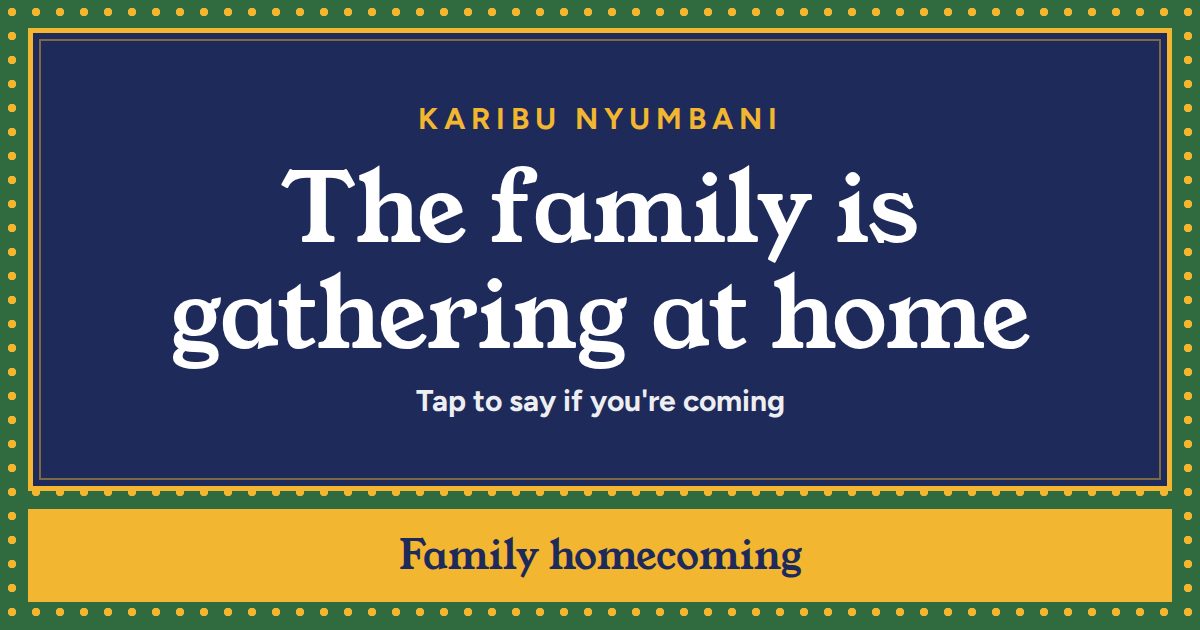
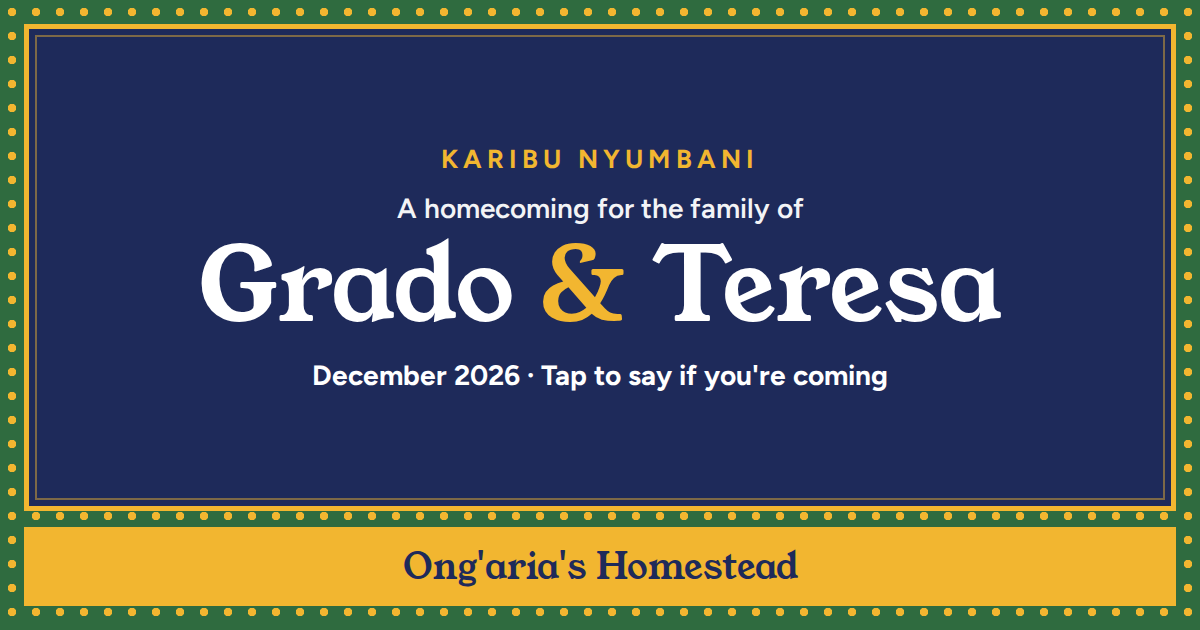
Fill in event details: Grado & Teresa, Ong'aria's Homestead, December 2026
Branch question and table switch off when no branches are configured.
Replies and messages are private to the hosts; contact is Uncle Gilly.

Changed region(s): [[0.0, 0.0302, 0.9867, 0.9651], [0.1233, 0.2413, 0.8633, 0.6635], [0.3392, 0.1508, 0.6475, 0.2111]]

diff --git a/web/index.html b/web/index.html
@@ -3,7 +3,7 @@
 <head>
   <meta charset="utf-8">
   <meta name="viewport" content="width=device-width, initial-scale=1">
-  <title>Karibu nyumbani · Family homecoming</title>
+  <title>Karibu nyumbani · Grado &amp; Teresa homecoming</title>
   <meta name="description" content="The family is gathering at home. Tap to say if you're coming. It takes under a minute, no sign-up.">
   <meta name="theme-color" content="#1E2A5A">
 
@@ -11,8 +11,8 @@
        not in config.js. og:url and og:image must be absolute URLs. -->
   <meta property="og:type" content="website">
   <meta property="og:site_name" content="Karibu nyumbani">
-  <meta property="og:title" content="Karibu nyumbani: the family is gathering at home">
-  <meta property="og:description" content="Tap to say if you're coming. It takes under a minute, no sign-up.">
+  <meta property="og:title" content="Karibu nyumbani: the family of Grado &amp; Teresa is gathering at home">
+  <meta property="og:description" content="December 2026 at Ong'aria's Homestead. Tap to say if you're coming. It takes under a minute, no sign-up.">
   <meta property="og:url" content="https://centrine-o.github.io/Homecoming-RSVP/">
   <meta property="og:image" content="https://centrine-o.github.io/Homecoming-RSVP/og-image.png">
   <meta property="og:image:width" content="1200">
@@ -47,7 +47,7 @@
           <dt>Where</dt>
           <dd><span data-cfg="venue"></span> <a id="directions" class="directions" target="_blank" rel="noopener" hidden>Get directions</a></dd>
         </div>
-        <div><dt>Host</dt><dd>Hosted by <span data-cfg="host"></span></dd></div>
+        <div id="host-row"><dt>Host</dt><dd>Hosted by <span data-cfg="host"></span></dd></div>
       </dl>
     </div>
     <p class="jina" data-cfg="saying"></p>
@@ -67,7 +67,7 @@
           <p id="name-error" class="error" hidden></p>
         </div>
 
-        <div class="field">
+        <div id="branch-field" class="field">
           <label for="branch">Your family branch</label>
           <p id="branch-hint" class="hint">The grandparents' child whose family you belong to, by birth or marriage.</p>
           <select id="branch" name="branch" required aria-describedby="branch-hint branch-error">
@@ -119,7 +119,7 @@
         </fieldset>
 
         <div class="field">
-          <label for="message">A message to the family <span class="optional">(optional)</span></label>
+          <label for="message"><span id="message-label">A message to the family</span> <span class="optional">(optional)</span></label>
           <textarea id="message" name="message" rows="3" maxlength="500" aria-describedby="message-count"></textarea>
           <p id="message-count" class="hint count-hint">0 / 500</p>
         </div>
@@ -148,7 +148,7 @@
       <h2 id="who-title">Who has replied</h2>
       <p id="totals" class="totals" aria-live="polite">Loading replies…</p>
       <p id="load-error" class="notice" role="status" hidden>Couldn't refresh the list. Check your connection; it will try again shortly.</p>
-      <p id="private-note" class="hint" hidden>Names are visible to the hosts only.</p>
+      <p id="private-note" class="hint" hidden>Only the hosts can see who has replied.</p>
       <div id="lists" class="lists">
         <div class="list is-attending" data-status="attending">
           <h3>Coming <span class="count"></span></h3>

diff --git a/web/config.js b/web/config.js
@@ -1,30 +1,25 @@
-// All event details live here (NFR-09). Text in [square brackets] is waiting for an answer
-// from docs/REQUIREMENTS.md section 3. After editing, also update the matching Script Properties
+// All event details live here (NFR-09). After editing, also update the matching Script Properties
 // in Apps Script (BRANCHES, OTHER_BRANCH, RSVP_DEADLINE, SHOW_PUBLIC_LISTS, SHOW_PUBLIC_MESSAGES, CONTACT).
 
 export default {
-  grandfather: '[Grandfather]',            // Q1
-  grandmother: '[Grandmother]',            // Q2
-  date: '[Day, date and time]',            // Q4, e.g. 'Saturday 19 December 2026, 10 am to evening'
-  venue: '[Home name, village]',           // Q5
-  mapsUrl: '',                             // Q5, a Google Maps pin link; empty hides "Get directions"
-  host: '[Host name]',                     // shown as "Hosted by …"
-  saying: '[Family saying]',               // shown in the band at the foot of the header
+  grandfather: 'Grado',
+  grandmother: 'Teresa',
+  date: 'December 2026 (exact date to be confirmed)',
+  venue: "Ong'aria's Homestead",
+  mapsUrl: '',                             // a Google Maps pin link; empty hides "Get directions"
+  host: '',                                // shown as "Hosted by …"; empty hides the line
+  saying: '',                              // the family saying in the band at the foot of the header; empty hides it
 
-  // Q3: one branch per child of the grandparents, in birth order.
-  branches: [
-    'Family of [first child]',
-    'Family of [second child]',
-    'Family of [third child]',
-  ],
-  otherBranchLabel: 'Other / friend of the family',
+  // One branch per child of the grandparents, in birth order. Empty (with otherBranchLabel empty)
+  // switches the branch question and the branch table off.
+  branches: [],
+  otherBranchLabel: '',
 
-  rsvpDeadline: '',                        // Q6, 'YYYY-MM-DD'; replies close at the end of that day, Nairobi time
-  showPublicLists: true,                   // Q7, false = names visible to the hosts only
-  showPublicMessages: true,                // Q8
+  rsvpDeadline: '',                        // 'YYYY-MM-DD'; replies close at the end of that day, Nairobi time
+  showPublicLists: false,                  // false = names visible to the hosts only, in the sheet
+  showPublicMessages: false,
 
-  // Q14
-  contact: { name: '[Contact name]', phone: '' },
+  contact: { name: 'Uncle Gilly', phone: '0725 433 625' },
 
   // The Apps Script /exec URL. Empty = preview mode (replies saved on this device only).
   apiUrl: '',

diff --git a/web/app.js b/web/app.js
@@ -3,7 +3,7 @@ import CONFIG from './config.js';
 import * as api from './api.js';
 import {
   STATUSES, STATUS_LABELS, LIMITS, validateReply, computeTotals, branchCoverage, sortForList,
-  partySize, messagesForWall, isClosed, closedMessage, formatIsoDate, contactText,
+  partySize, messagesForWall, isClosed, closedMessage, formatIsoDate, contactText, usesBranches,
 } from './logic.js';
 
 const REFRESH_MS = 60000;
@@ -49,7 +49,8 @@ const plural = (n, one, many) => `${n} ${n === 1 ? one : many}`;
 const pageUrl = () => CONFIG.siteUrl || location.origin + location.pathname;
 
 function shareHref() {
-  const text = `Karibu nyumbani! The family of ${CONFIG.grandfather} & ${CONFIG.grandmother} is gathering at home on ${CONFIG.date}.\n`
+  const where = CONFIG.venue ? ` at ${CONFIG.venue}` : ' at home';
+  const text = `Karibu nyumbani! The family of ${CONFIG.grandfather} & ${CONFIG.grandmother} is gathering${where}: ${CONFIG.date}.\n`
     + `Tap to say if you're coming: ${pageUrl()}\n`
     + 'Please forward to everyone in your household.';
   return 'https://wa.me/?text=' + encodeURIComponent(text);
@@ -59,6 +60,14 @@ function shareHref() {
 
 function fillEventDetails() {
   for (const node of document.querySelectorAll('[data-cfg]')) node.textContent = CONFIG[node.dataset.cfg] ?? '';
+  $('host-row').hidden = !CONFIG.host;
+  document.querySelector('.jina').hidden = !CONFIG.saying;
+  $('branch-field').hidden = !usesBranches(RULES);
+  $('branches').hidden = !usesBranches(RULES);
+  if (!CONFIG.showPublicLists) $('who-title').textContent = 'Replies so far';
+  if (!CONFIG.showPublicMessages || !CONFIG.showPublicLists) {
+    $('message-label').textContent = 'A message for the hosts';
+  }
   if (CONFIG.mapsUrl) {
     $('directions').href = CONFIG.mapsUrl;
     $('directions').hidden = false;
@@ -274,7 +283,7 @@ function renderLists(rows) {
       const size = partySize(r);
       ul.append(el('li', {},
         el('span', { class: 'who' }, r.name),
-        el('span', { class: 'meta' }, size ? `${r.branch} · ${size}` : r.branch)));
+        el('span', { class: 'meta' }, [r.branch, size].filter(Boolean).join(' · '))));
     }
   }
 }
@@ -298,7 +307,7 @@ function renderMessages(rows) {
   for (const r of messages) {
     list.append(el('figure', { class: 'quote' },
       el('blockquote', {}, r.message),
-      el('figcaption', {}, `${r.name}, ${r.branch}`)));
+      el('figcaption', {}, [r.name, r.branch].filter(Boolean).join(', '))));
   }
   $('messages').hidden = messages.length === 0;
 }

diff --git a/tests/logic.test.js b/tests/logic.test.js
@@ -3,7 +3,7 @@ import assert from 'node:assert/strict';
 import {
   validateReply, computeTotals, branchCoverage, sortForList,
   cleanName, makeKey, partySize, messagesForWall, isClosed, closedMessage,
-  escapeFormula, STATUS_LABELS, formatIsoDate, contactText,
+  escapeFormula, STATUS_LABELS, formatIsoDate, contactText, usesBranches,
 } from '../web/logic.js';
 
 const BRANCHES = ['Family of Ann', 'Family of Ben', 'Family of Cate'];
@@ -47,6 +47,13 @@ describe('BR-01 validateReply: branch and status', () => {
   });
   test('rejects an empty Other option when none is configured', () => {
     assert.equal(validateReply({ ...base, branch: '' }, { branches: BRANCHES, otherBranch: '' }).ok, false);
+  });
+  test('with no branches configured, the branch question is off and stored as empty', () => {
+    const off = { branches: [], otherBranch: '' };
+    assert.equal(usesBranches(off), false);
+    assert.equal(validateReply({ ...base, branch: '' }, off).reply.branch, '');
+    assert.equal(validateReply({ ...base, branch: 'Anything' }, off).reply.branch, '');
+    assert.equal(usesBranches({ branches: [], otherBranch: 'Other' }), true);
   });
   test('rejects unknown status', () => {
     for (const status of ['', undefined, 'yes', 'Attending']) {

diff --git a/web/logic.js b/web/logic.js
@@ -18,6 +18,10 @@ export function makeKey(name, branch) {
   return cleanName(name).toLowerCase() + '|' + branch;
 }
 
+export function usesBranches({ branches, otherBranch }) {
+  return branches.length > 0 || Boolean(otherBranch);
+}
+
 function toCount(value, fallback, min, max) {
   if (value === '' || value == null) return fallback;
   const n = Math.round(Number(value));
@@ -35,8 +39,10 @@ export function validateReply(input, { branches, otherBranch }) {
     return { ok: false, field: 'name', error: ERRORS.name };
   }
 
-  const branch = String(data.branch ?? '');
-  const validBranch = branch !== '' && (branches.includes(branch) || branch === otherBranch);
+  // With no branches configured the question is switched off and every reply has branch ''.
+  const branch = usesBranches({ branches, otherBranch }) ? String(data.branch ?? '') : '';
+  const validBranch = !usesBranches({ branches, otherBranch })
+    || (branch !== '' && (branches.includes(branch) || branch === otherBranch));
   if (!validBranch) return { ok: false, field: 'branch', error: ERRORS.branch };
 
   const status = String(data.status ?? '');

diff --git a/tests/backend.test.js b/tests/backend.test.js
@@ -141,6 +141,15 @@ describe('POST validation (BR-01)', () => {
     assert.equal(sheet.data.length, 1);
   });
 
+  test('with no branches configured, replies save with an empty branch and upsert by name', () => {
+    load({ BRANCHES: '[]', OTHER_BRANCH: '' });
+    assert.deepEqual(post(reply({ branch: '' })), { ok: true, updated: false });
+    assert.deepEqual(post(reply({ branch: 'ignored', status: 'tentative' })), { ok: true, updated: true });
+    assert.equal(sheet.data.length, 2);
+    assert.equal(sheet.data[1][2], '');
+    assert.equal(sheet.data[1][7], 'wanjiru k.|');
+  });
+
   test('a body that is not JSON is a validation error, not a crash', () => {
     assert.equal(JSON.parse(ctx.doPost({ postData: { contents: 'nope' } }).body).code, 'validation');
     assert.equal(JSON.parse(ctx.doPost(undefined).body).code, 'validation');

diff --git a/docs/REQUIREMENTS.md b/docs/REQUIREMENTS.md
@@ -42,20 +42,20 @@ Confirm these with Dad before writing code. Every item becomes a value in the ap
 
 | # | Question | Why it matters | Answer |
 | --- | --- | --- | --- |
-| Q1 | Grandfather's full name as the family uses it | Hero title on the page |  |
-| Q2 | Grandmother's full name as the family uses it | Hero title on the page |  |
-| Q3 | Names of each of the grandparents' children, in birth order | Each child becomes one family branch in the dropdown and in the coverage table |  |
-| Q4 | Event date or dates, and arrival and departure times | Shown on the page; decides whether overnight stay counts are needed |  |
-| Q5 | Venue: home name or village, plus a Google Maps pin | Shown on the page, with a directions link |  |
-| Q6 | RSVP deadline | Locks the form after this date |  |
-| Q7 | Should replies be visible to everyone, or only to the hosts? | Decides whether the public lists are shown |  |
-| Q8 | Are messages to the family public or private? | Privacy of the message wall |  |
-| Q9 | Do we need overnight accommodation counts? | Optional "staying overnight" field |  |
-| Q10 | Do we need dietary needs or contributions, such as who brings what? | Optional extra fields; out of scope unless confirmed |  |
-| Q11 | Language: English only, or English and Kiswahili? | Copy and labels |  |
-| Q12 | Who else needs edit access to the sheet? | Google Sheet sharing |  |
-| Q13 | Is there a photo of the grandparents for the WhatsApp preview? | `og:image` link preview |  |
-| Q14 | Contact person and phone number for questions | Footer of the page |  |
+| Q1 | Grandfather's full name as the family uses it | Hero title on the page | Grado |
+| Q2 | Grandmother's full name as the family uses it | Hero title on the page | Teresa |
+| Q3 | Names of each of the grandparents' children, in birth order | Each child becomes one family branch in the dropdown and in the coverage table | Not needed: the branch question and branch table are switched off |
+| Q4 | Event date or dates, and arrival and departure times | Shown on the page; decides whether overnight stay counts are needed | December 2026, exact date to be confirmed |
+| Q5 | Venue: home name or village, plus a Google Maps pin | Shown on the page, with a directions link | Ong'aria's Homestead; no Maps pin yet |
+| Q6 | RSVP deadline | Locks the form after this date | None yet (form stays open) |
+| Q7 | Should replies be visible to everyone, or only to the hosts? | Decides whether the public lists are shown | Hosts only: the page shows counts, never names |
+| Q8 | Are messages to the family public or private? | Privacy of the message wall | Private (follows Q7) |
+| Q9 | Do we need overnight accommodation counts? | Optional "staying overnight" field | No |
+| Q10 | Do we need dietary needs or contributions, such as who brings what? | Optional extra fields; out of scope unless confirmed | No |
+| Q11 | Language: English only, or English and Kiswahili? | Copy and labels | English only |
+| Q12 | Who else needs edit access to the sheet? | Google Sheet sharing | Centrine will share as needed |
+| Q13 | Is there a photo of the grandparents for the WhatsApp preview? | `og:image` link preview | Family homestead photo (to be added); kanga placeholder until then |
+| Q14 | Contact person and phone number for questions | Footer of the page | Uncle Gilly, 0725 433 625 |
 
 ## 4. Functional requirements
 

diff --git a/README.md b/README.md
@@ -19,7 +19,7 @@ While `apiUrl` in `web/config.js` is empty, the page runs in **preview mode**: a
 
 ## 1. Fill in the event details
 
-Edit `web/config.js`. Everything in `[square brackets]` is waiting for an answer from section 3 of the requirements: names, date, venue, Maps pin, branches in birth order, deadline, privacy switches and contact.
+Event details are in `web/config.js`, filled in from the answers recorded in section 3 of the requirements. Still to come: the exact December date, the RSVP deadline and a Google Maps pin.
 
 The link preview text is in the `og:` tags in `web/index.html`, because WhatsApp reads them without running JavaScript. Replace `web/og-image.png` with a 1200×630 photo of the grandparents if you have one. The current image is a placeholder.
 
@@ -39,14 +39,16 @@ clasp push
 2. Choose `setup` in the function dropdown, click **Run**, and approve the permissions. This creates the `RSVPs` and `Summary` tabs and placeholder Script Properties.
 3. Go to Project Settings → **Script properties** and set them to match `config.js`:
 
-   | Property | Example |
-   | --- | --- |
-   | `BRANCHES` | `["Family of Ann","Family of Ben"]` (same text and order as `branches`) |
-   | `OTHER_BRANCH` | `Other / friend of the family` (same as `otherBranchLabel`) |
-   | `RSVP_DEADLINE` | `2026-12-01`, or empty for no deadline |
-   | `SHOW_PUBLIC_LISTS` | `true` or `false` |
-   | `SHOW_PUBLIC_MESSAGES` | `true` or `false` |
-   | `CONTACT` | `Peter on 0700 000 000` |
+   `setup()` already seeds them with the current answers, so you only need to change `RSVP_DEADLINE` once the date is set.
+
+   | Property | Current value | Meaning |
+   | --- | --- | --- |
+   | `BRANCHES` | `[]` | No family branches; the branch question is off |
+   | `OTHER_BRANCH` | (empty) | Same as `otherBranchLabel` |
+   | `RSVP_DEADLINE` | (empty) | e.g. `2026-12-10`; empty means the form never closes |
+   | `SHOW_PUBLIC_LISTS` | `false` | Only the hosts see names, in the sheet |
+   | `SHOW_PUBLIC_MESSAGES` | `false` | Messages go to the hosts only |
+   | `CONTACT` | `Uncle Gilly on 0725 433 625` | Used in the "Replies closed" message |
 
 4. Deploy → **New deployment** → type **Web app**, with Execute as: **Me** and Who has access: **Anyone**. Copy the `/exec` URL into `apiUrl` in `web/config.js`.
 
